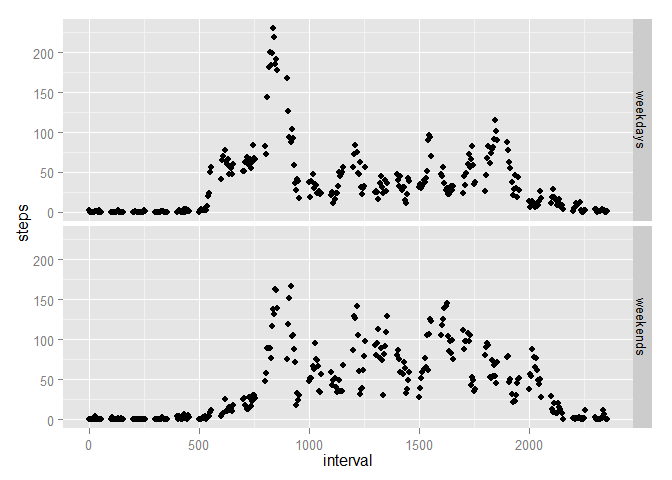
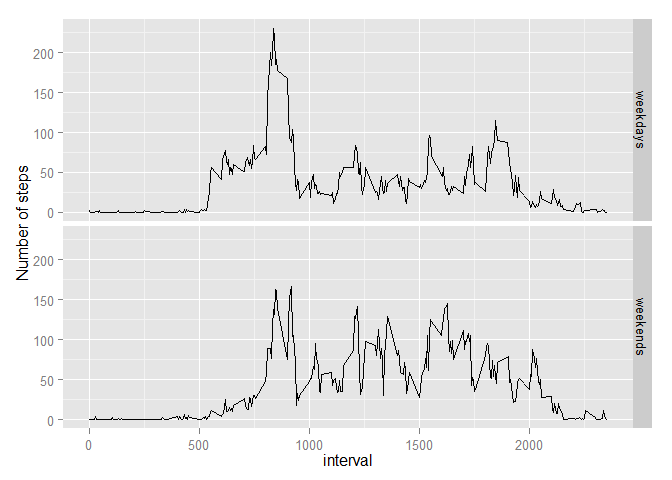
Final Version

diff --git a/PA1_template.html b/PA1_template.html
@@ -151,8 +151,8 @@ weeklogic&lt;-(weekdays(steps2$date)== &quot;Saturday&quot; | weekdays(steps2$da
         daily.pattern&lt;-rbind(daily.pattern.weekends,daily.pattern.weekdays)
         library(ggplot2)</code></pre>
 <pre><code>## Warning: package 'ggplot2' was built under R version 3.0.3</code></pre>
-<pre class="r"><code>        qplot(x=interval,y=steps,data=daily.pattern,facets=weekends~.)           </code></pre>
[1 lines of base64/hex data omitted]
+<pre class="r"><code>        qplot(y=steps,x=interval,data=daily.pattern,facets=weekends~.,geom=&quot;line&quot;,ylab=&quot;Number of steps&quot;)</code></pre>
[1 lines of base64/hex data omitted]
 </div>
 </div>
 

diff --git a/PA1_template.md b/PA1_template.md
@@ -156,7 +156,7 @@ weeklogic<-(weekdays(steps2$date)== "Saturday" | weekdays(steps2$date)== "Sunday
 ```
 
 ```r
-        qplot(x=interval,y=steps,data=daily.pattern,facets=weekends~.)           
+        qplot(y=steps,x=interval,data=daily.pattern,facets=weekends~.,geom="line",ylab="Number of steps")
 ```
 
 ![plot of chunk unnamed-chunk-8](./PA1_template_files/figure-html/unnamed-chunk-8.png) 
